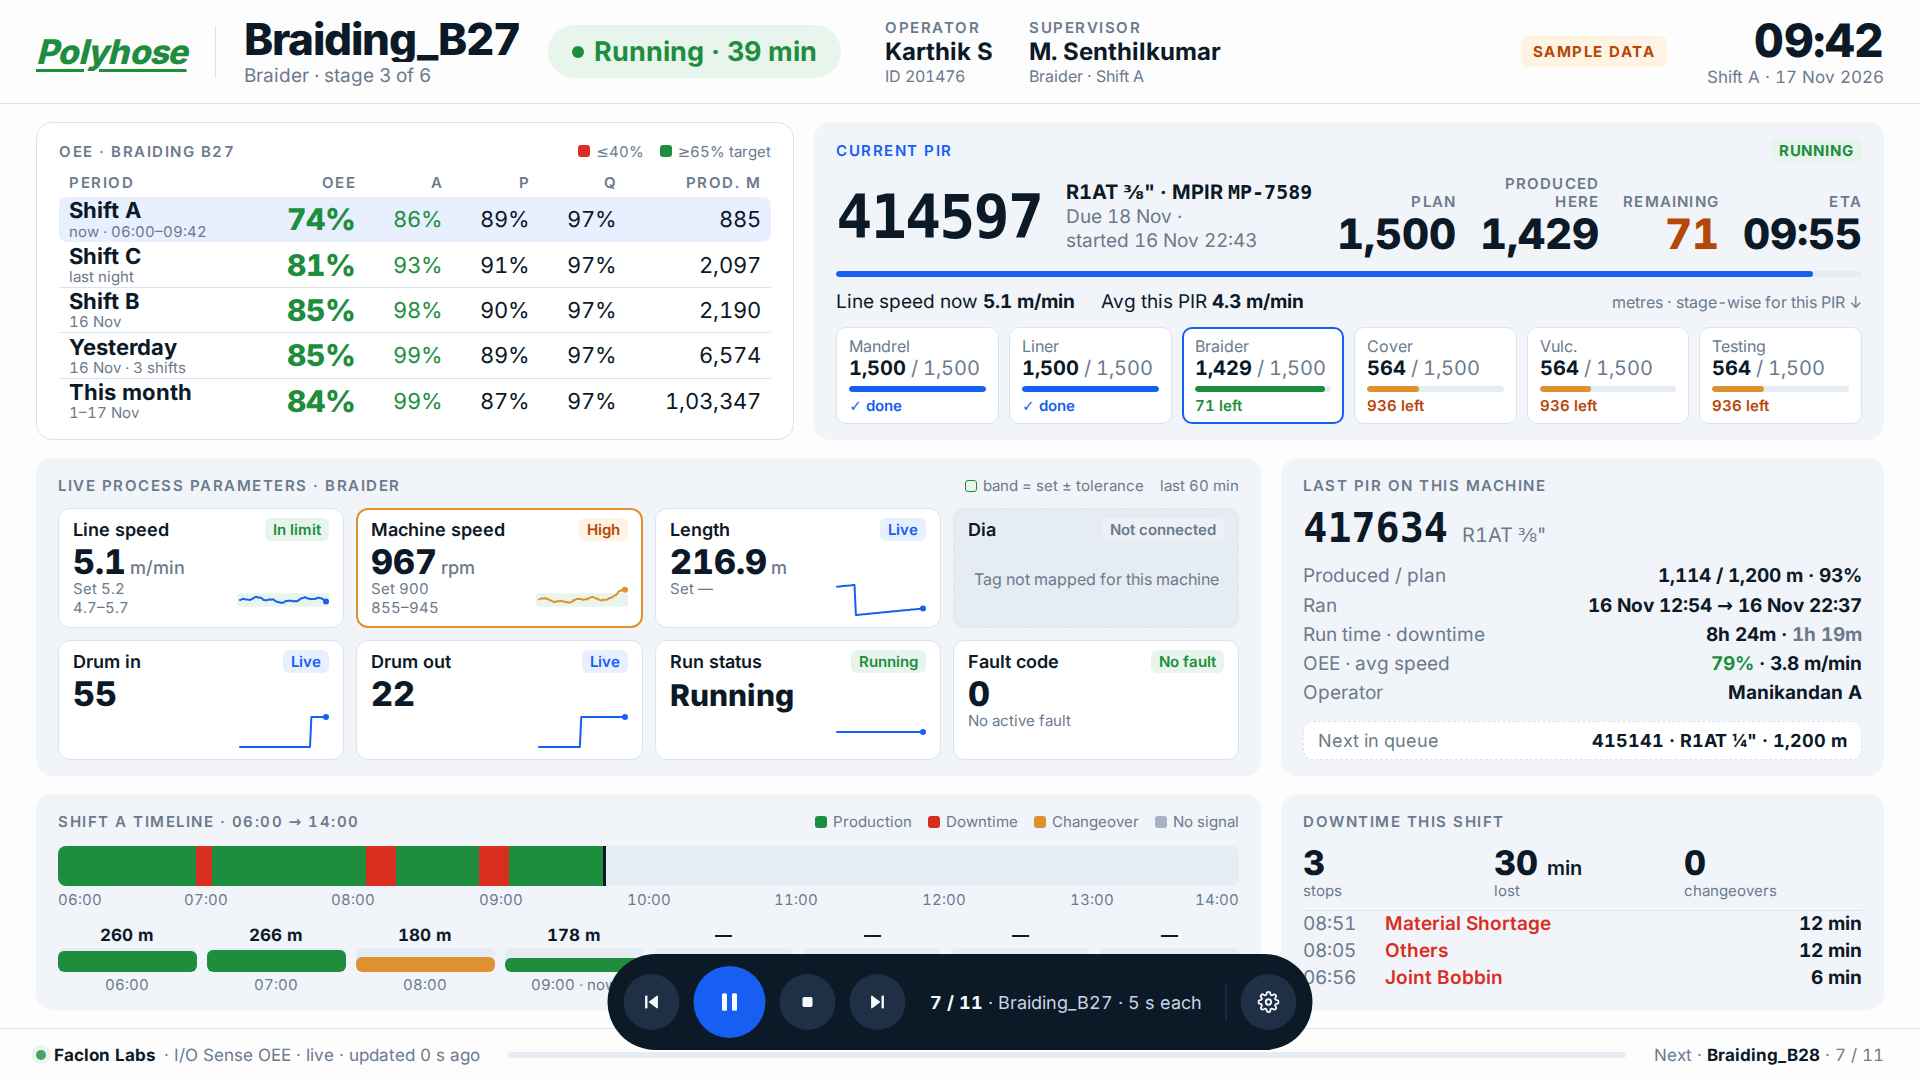
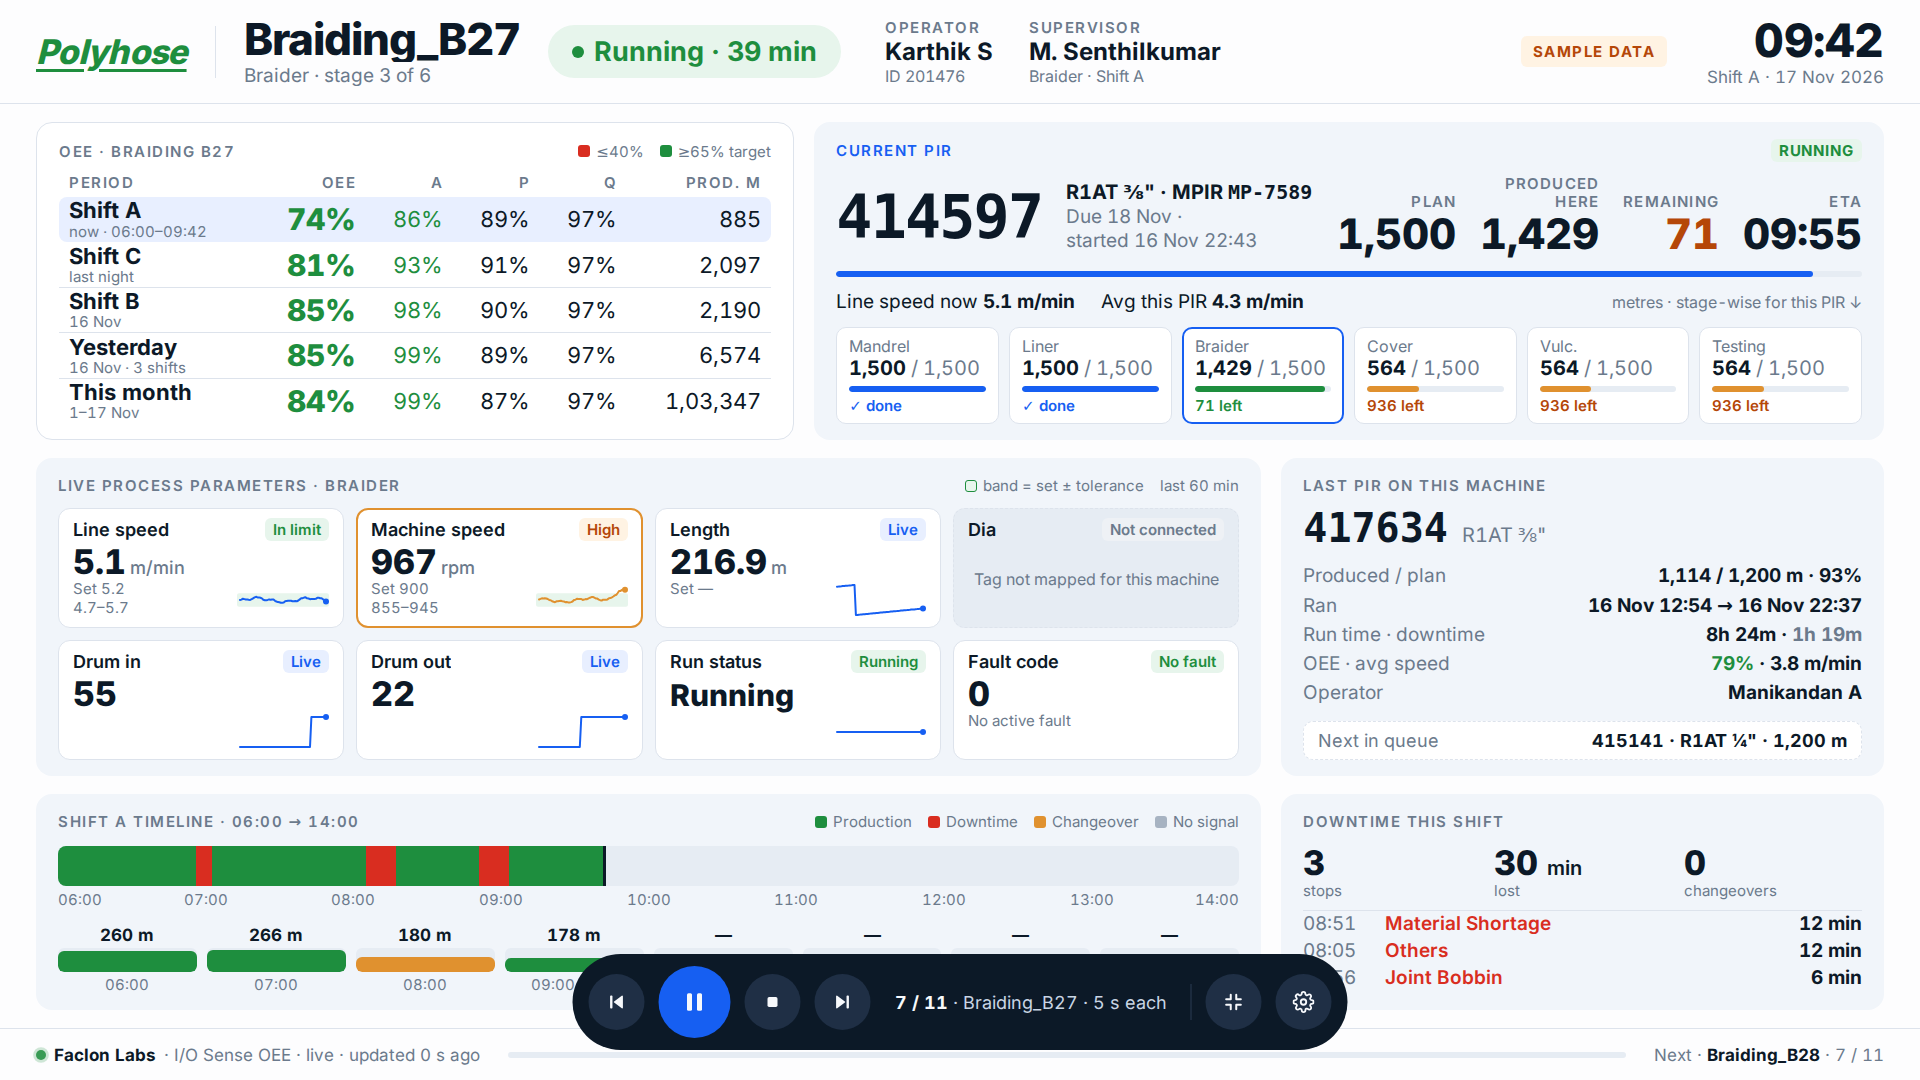
feat(tv): add full screen options
- Full screen / Exit full screen button on the control bar
- F key toggles full screen
- "Full screen on first touch" profile setting (default on); stays off
  after someone leaves full screen on purpose
- E2E tests for the button, key and setting; refreshed screenshots

Changed region(s): [[0.2812, 0.8861, 0.7188, 0.9778]]

diff --git a/frontend/src/tv/hooks/useFullscreen.ts b/frontend/src/tv/hooks/useFullscreen.ts
@@ -1,0 +1,90 @@
+import { useCallback, useEffect, useState } from 'react';
+
+// Safari still ships the webkit-prefixed API
+type FsDocument = Document & { webkitFullscreenElement?: Element | null; webkitExitFullscreen?: () => Promise<void> };
+type FsElement = HTMLElement & { webkitRequestFullscreen?: () => Promise<void> };
+
+const doc = () => document as FsDocument;
+
+function fullscreenElement(): Element | null {
+  return doc().fullscreenElement ?? doc().webkitFullscreenElement ?? null;
+}
+
+export function fullscreenSupported(): boolean {
+  const el = document.documentElement as FsElement;
+  return !!(el.requestFullscreen || el.webkitRequestFullscreen);
+}
+
+/** Browser full screen. Entering needs a click, tap or key press (browser rule). */
+export function useFullscreen() {
+  const [isFullscreen, setIsFullscreen] = useState(() => !!fullscreenElement());
+
+  useEffect(() => {
+    const onChange = () => setIsFullscreen(!!fullscreenElement());
+    document.addEventListener('fullscreenchange', onChange);
+    document.addEventListener('webkitfullscreenchange', onChange);
+    return () => {
+      document.removeEventListener('fullscreenchange', onChange);
+      document.removeEventListener('webkitfullscreenchange', onChange);
+    };
+  }, []);
+
+  const enter = useCallback(async () => {
+    if (fullscreenElement()) return;
+    const el = document.documentElement as FsElement;
+    try {
+      if (el.requestFullscreen) await el.requestFullscreen({ navigationUI: 'hide' });
+      else await el.webkitRequestFullscreen?.();
+    } catch (e) {
+      console.warn('[TV] full screen was refused by the browser', e);
+    }
+  }, []);
+
+  const exit = useCallback(async () => {
+    if (!fullscreenElement()) return;
+    try {
+      if (document.exitFullscreen) await document.exitFullscreen();
+      else await doc().webkitExitFullscreen?.();
+    } catch (e) {
+      console.warn('[TV] could not leave full screen', e);
+    }
+  }, []);
+
+  const toggle = useCallback(() => (fullscreenElement() ? exit() : enter()), [enter, exit]);
+
+  return { isFullscreen, supported: fullscreenSupported(), enter, exit, toggle };
+}
+
+/**
+ * Enter full screen on the first click, tap or key press, when the profile asks
+ * for it. Once someone leaves full screen on purpose, it stays off for this visit.
+ */
+export function useAutoFullscreen(enabled: boolean, enter: () => Promise<void>): void {
+  useEffect(() => {
+    if (!enabled || !fullscreenSupported()) return;
+    let wasFull = !!fullscreenElement();
+    let disarmed = false;
+
+    const onChange = () => {
+      if (fullscreenElement()) wasFull = true;
+      else if (wasFull) disarmed = true;
+    };
+    const onGesture = (e: Event) => {
+      if (disarmed || fullscreenElement()) return;
+      // The control bar's own buttons and the F key handle full screen themselves
+      if (e.target instanceof Element && e.target.closest('.control-bar')) return;
+      if (e instanceof KeyboardEvent && (e.key === 'f' || e.key === 'F')) return;
+      void enter();
+    };
+
+    const events = ['pointerdown', 'keydown', 'touchend'] as const;
+    events.forEach((ev) => window.addEventListener(ev, onGesture));
+    document.addEventListener('fullscreenchange', onChange);
+    document.addEventListener('webkitfullscreenchange', onChange);
+    return () => {
+      events.forEach((ev) => window.removeEventListener(ev, onGesture));
+      document.removeEventListener('fullscreenchange', onChange);
+      document.removeEventListener('webkitfullscreenchange', onChange);
+    };
+  }, [enabled, enter]);
+}

diff --git a/frontend/src/components/tv/TvScreen.tsx b/frontend/src/components/tv/TvScreen.tsx
@@ -2,6 +2,7 @@ import { useEffect, useMemo } from 'react';
 import { navigate } from '../../router';
 import { tvDataSource } from '../../services/tvDataSource';
 import { useControlBar } from '../../tv/hooks/useControlBar';
+import { useAutoFullscreen, useFullscreen } from '../../tv/hooks/useFullscreen';
 import { useKiosk, useStageScale, STAGE_H, STAGE_W } from '../../tv/hooks/useKiosk';
 import { isStale, useMachineData } from '../../tv/hooks/useMachineData';
 import { useNow } from '../../tv/hooks/useNow';
@@ -41,9 +42,12 @@ export function TvScreen() {
   const machine = machines?.find((m) => m.id === current?.machineId) ?? null;
   const data = useMachineData(machine?.id ?? null);
   const { visible, barHandlers } = useControlBar(profile?.hideControlsAfterMs ?? 3000);
+  const fullscreen = useFullscreen();
+  useAutoFullscreen(profileState.status === 'ready' && (profile?.autoFullscreen ?? true), fullscreen.enter);
 
   // Keyboard and TV remote
   const { prev, next, togglePlay, stop } = rotation;
+  const toggleFullscreen = fullscreen.toggle;
   useEffect(() => {
     const onKey = (e: KeyboardEvent) => {
       const onButton = e.target instanceof HTMLButtonElement;
@@ -54,10 +58,11 @@ export function TvScreen() {
         togglePlay();
       } else if (e.key === 'Escape') stop();
       else if (e.key === 's' || e.key === 'S') navigate('/tv/settings');
+      else if (e.key === 'f' || e.key === 'F') void toggleFullscreen();
     };
     window.addEventListener('keydown', onKey);
     return () => window.removeEventListener('keydown', onKey);
-  }, [prev, next, togglePlay, stop]);
+  }, [prev, next, togglePlay, stop, toggleFullscreen]);
 
   const theme = resolveTheme(profile?.theme ?? 'auto', now);
   const position = playlist.length ? rotation.state.index + 1 : 0;
@@ -118,6 +123,7 @@ export function TvScreen() {
           onStop={rotation.stop}
           onNext={rotation.next}
           onSettings={() => navigate('/tv/settings')}
+          fullscreen={{ supported: fullscreen.supported, active: fullscreen.isFullscreen, toggle: () => void fullscreen.toggle() }}
           barHandlers={barHandlers}
         />
       </div>

diff --git a/frontend/src/tests/e2e/behaviour.spec.ts b/frontend/src/tests/e2e/behaviour.spec.ts
@@ -181,3 +181,45 @@ test.describe('settings', () => {
     await expect(page.locator('.set-counter')).toContainText('16 of 34');
   });
 });
+
+test.describe('full screen', () => {
+  const isFull = (page: import('@playwright/test').Page) => page.evaluate(() => !!document.fullscreenElement);
+
+  test('control bar button and F key toggle full screen', async ({ page }) => {
+    const errors = collectConsoleErrors(page);
+    await page.goto('/tv?profile=braider-hall');
+    await waitForMachine(page);
+    await page.mouse.move(400, 400);
+    await page.getByRole('button', { name: 'Full screen' }).click();
+    await expect.poll(() => isFull(page)).toBe(true);
+    await page.mouse.move(420, 420);
+    await expect(page.getByRole('button', { name: 'Exit full screen' })).toBeVisible();
+
+    await page.keyboard.press('f');
+    await expect.poll(() => isFull(page)).toBe(false);
+    await page.keyboard.press('f');
+    await expect.poll(() => isFull(page)).toBe(true);
+    expect(errors).toEqual([]);
+  });
+
+  test('enters on the first click when the setting is on, and the setting can turn it off', async ({ page }) => {
+    await page.goto('/tv?profile=braider-hall');
+    await waitForMachine(page);
+    await page.mouse.click(300, 300);
+    await expect.poll(() => isFull(page)).toBe(true);
+    // Leaving on purpose keeps it off for this visit
+    await page.keyboard.press('f');
+    await expect.poll(() => isFull(page)).toBe(false);
+    await page.mouse.click(300, 300);
+    await page.waitForTimeout(300);
+    expect(await isFull(page)).toBe(false);
+
+    await page.goto('/tv/settings?profile=braider-hall');
+    await page.getByRole('switch', { name: 'Full screen on first touch' }).click();
+    await page.getByRole('button', { name: 'Save & apply' }).click();
+    await waitForMachine(page);
+    await page.mouse.click(300, 300);
+    await page.waitForTimeout(300);
+    expect(await isFull(page)).toBe(false);
+  });
+});

diff --git a/frontend/src/components/tv/ControlBar.tsx b/frontend/src/components/tv/ControlBar.tsx
@@ -1,5 +1,5 @@
 import type { PlayMode } from '../../tv/lib/rotation';
-import { IconGear, IconNext, IconPause, IconPlay, IconPrev, IconStop } from '../common/Icons';
+import { IconFullscreen, IconGear, IconNext, IconPause, IconPlay, IconPrev, IconStop } from '../common/Icons';
 
 interface Props {
   visible: boolean;
@@ -14,6 +14,7 @@ interface Props {
   onStop(): void;
   onNext(): void;
   onSettings(): void;
+  fullscreen: { supported: boolean; active: boolean; toggle(): void };
   barHandlers: { onPointerEnter(): void; onPointerLeave(): void };
 }
 
@@ -58,6 +59,17 @@ export function ControlBar(p: Props) {
         {suffix}
       </div>
       <span className="cb-sep" />
+      {p.fullscreen.supported && (
+        <button
+          type="button"
+          className="cb-btn"
+          onClick={p.fullscreen.toggle}
+          aria-label={p.fullscreen.active ? 'Exit full screen' : 'Full screen'}
+          aria-pressed={p.fullscreen.active}
+        >
+          <IconFullscreen exit={p.fullscreen.active} />
+        </button>
+      )}
       <button type="button" className="cb-btn" onClick={p.onSettings} aria-label="Settings">
         <IconGear />
       </button>

diff --git a/frontend/src/components/settings/PlaybackColumn.tsx b/frontend/src/components/settings/PlaybackColumn.tsx
@@ -111,6 +111,17 @@ export function PlaybackColumn({ draft, update, machines, statuses, onValidity }
         </div>
         <div className="pb-row">
           <div>
+            <div className="pb-row-title">Full screen on first touch</div>
+            <div className="pb-sub">Browsers need one click, tap or key press · F toggles</div>
+          </div>
+          <Toggle
+            label="Full screen on first touch"
+            checked={draft.autoFullscreen ?? true}
+            onChange={(autoFullscreen) => update({ autoFullscreen })}
+          />
+        </div>
+        <div className="pb-row">
+          <div>
             <div className="pb-row-title">Colours</div>
             <div className="pb-sub">Auto: Night from 19:00 to 07:00</div>
           </div>

diff --git a/frontend/src/components/common/Icons.tsx b/frontend/src/components/common/Icons.tsx
@@ -56,6 +56,18 @@ export function IconGear({ size = 22 }: IconProps) {
   );
 }
 
+export function IconFullscreen({ size = 22, exit = false }: IconProps & { exit?: boolean }) {
+  return (
+    <svg width={size} height={size} viewBox="0 0 24 24" aria-hidden="true" fill="none" stroke="currentColor" strokeWidth="2.2" strokeLinecap="round" strokeLinejoin="round">
+      {exit ? (
+        <path d="M9 4v5H4M15 4v5h5M9 20v-5H4M15 20v-5h5" />
+      ) : (
+        <path d="M4 9V4h5M20 9V4h-5M4 15v5h5M20 15v5h-5" />
+      )}
+    </svg>
+  );
+}
+
 export function IconGrip({ size = 16 }: IconProps) {
   return (
     <svg width={size} height={size} viewBox="0 0 16 16" aria-hidden="true">

diff --git a/frontend/src/tv/types.ts b/frontend/src/tv/types.ts
@@ -178,6 +178,8 @@ export interface TvProfile {
   jumpToDown: boolean;
   theme: ThemeSetting;
   hideControlsAfterMs: HideDelayMs;
+  /** Enter full screen on the first click, tap or key press (default on) */
+  autoFullscreen?: boolean;
   updatedAt: string;
   updatedBy: string;
 }

diff --git a/frontend/src/tv/profile/profileStore.ts b/frontend/src/tv/profile/profileStore.ts
@@ -52,6 +52,7 @@ export function createDefaultProfile(machines: Machine[], id = 'default', name =
     jumpToDown: true,
     theme: 'auto',
     hideControlsAfterMs: 3000,
+    autoFullscreen: true,
     updatedAt: new Date().toISOString(),
     updatedBy: 'tv',
   };

diff --git a/frontend/src/services/mockTvDataSource.ts b/frontend/src/services/mockTvDataSource.ts
@@ -523,6 +523,7 @@ function seedProfiles(): TvProfile[] {
     jumpToDown: true,
     theme: 'auto' as const,
     hideControlsAfterMs: 3000 as const,
+    autoFullscreen: true,
     updatedAt: now,
     updatedBy: 'system',
   };
